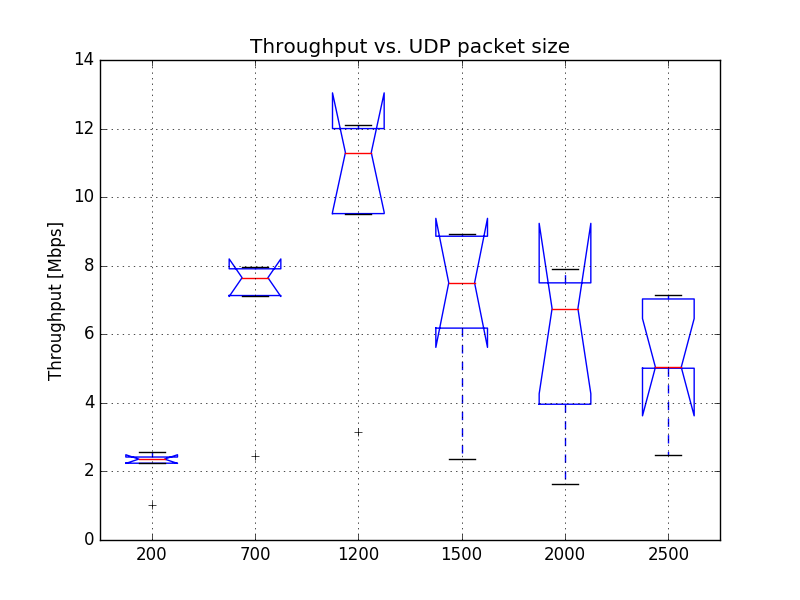
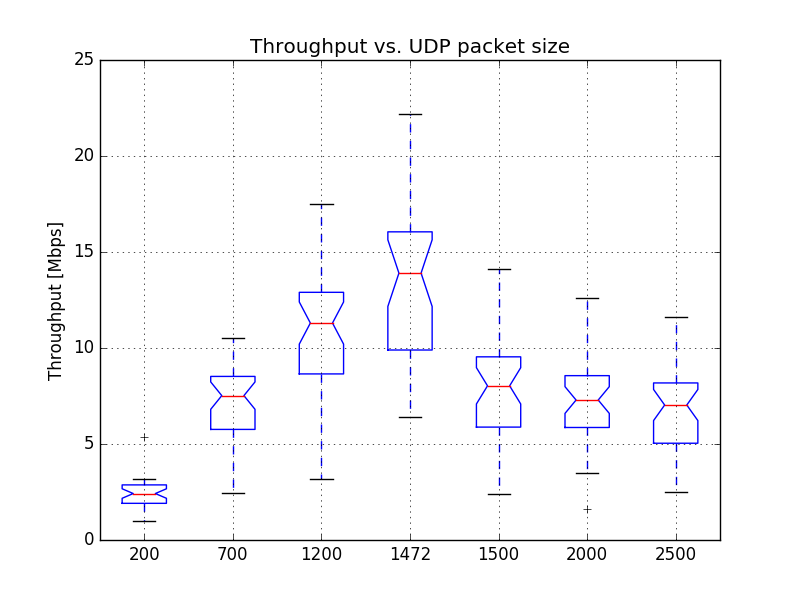
hw10 Q1: added iperf data logs, final plots

diff --git a/group06_hw10/Question1.md b/group06_hw10/Question1.md
@@ -39,10 +39,10 @@ Yes, TCP throughput consistently was lower than UDP (except for 6Mbps, where thi
 
 ![](q1/udp_packet_lengths.png)
 
-Explanation:
+#### Explanation:
 
 
-References:
+#### References:
 
 * [StackOverflow](http://stackoverflow.com/questions/14993000/the-most-reliable-and-efficient-udp-packet-size)
 
@@ -70,7 +70,8 @@ References:
 
 
 #### Our test results:
+
 ![](q1/tcp_algos.png) 
 
-Explanation:
+#### Explanation:
 
